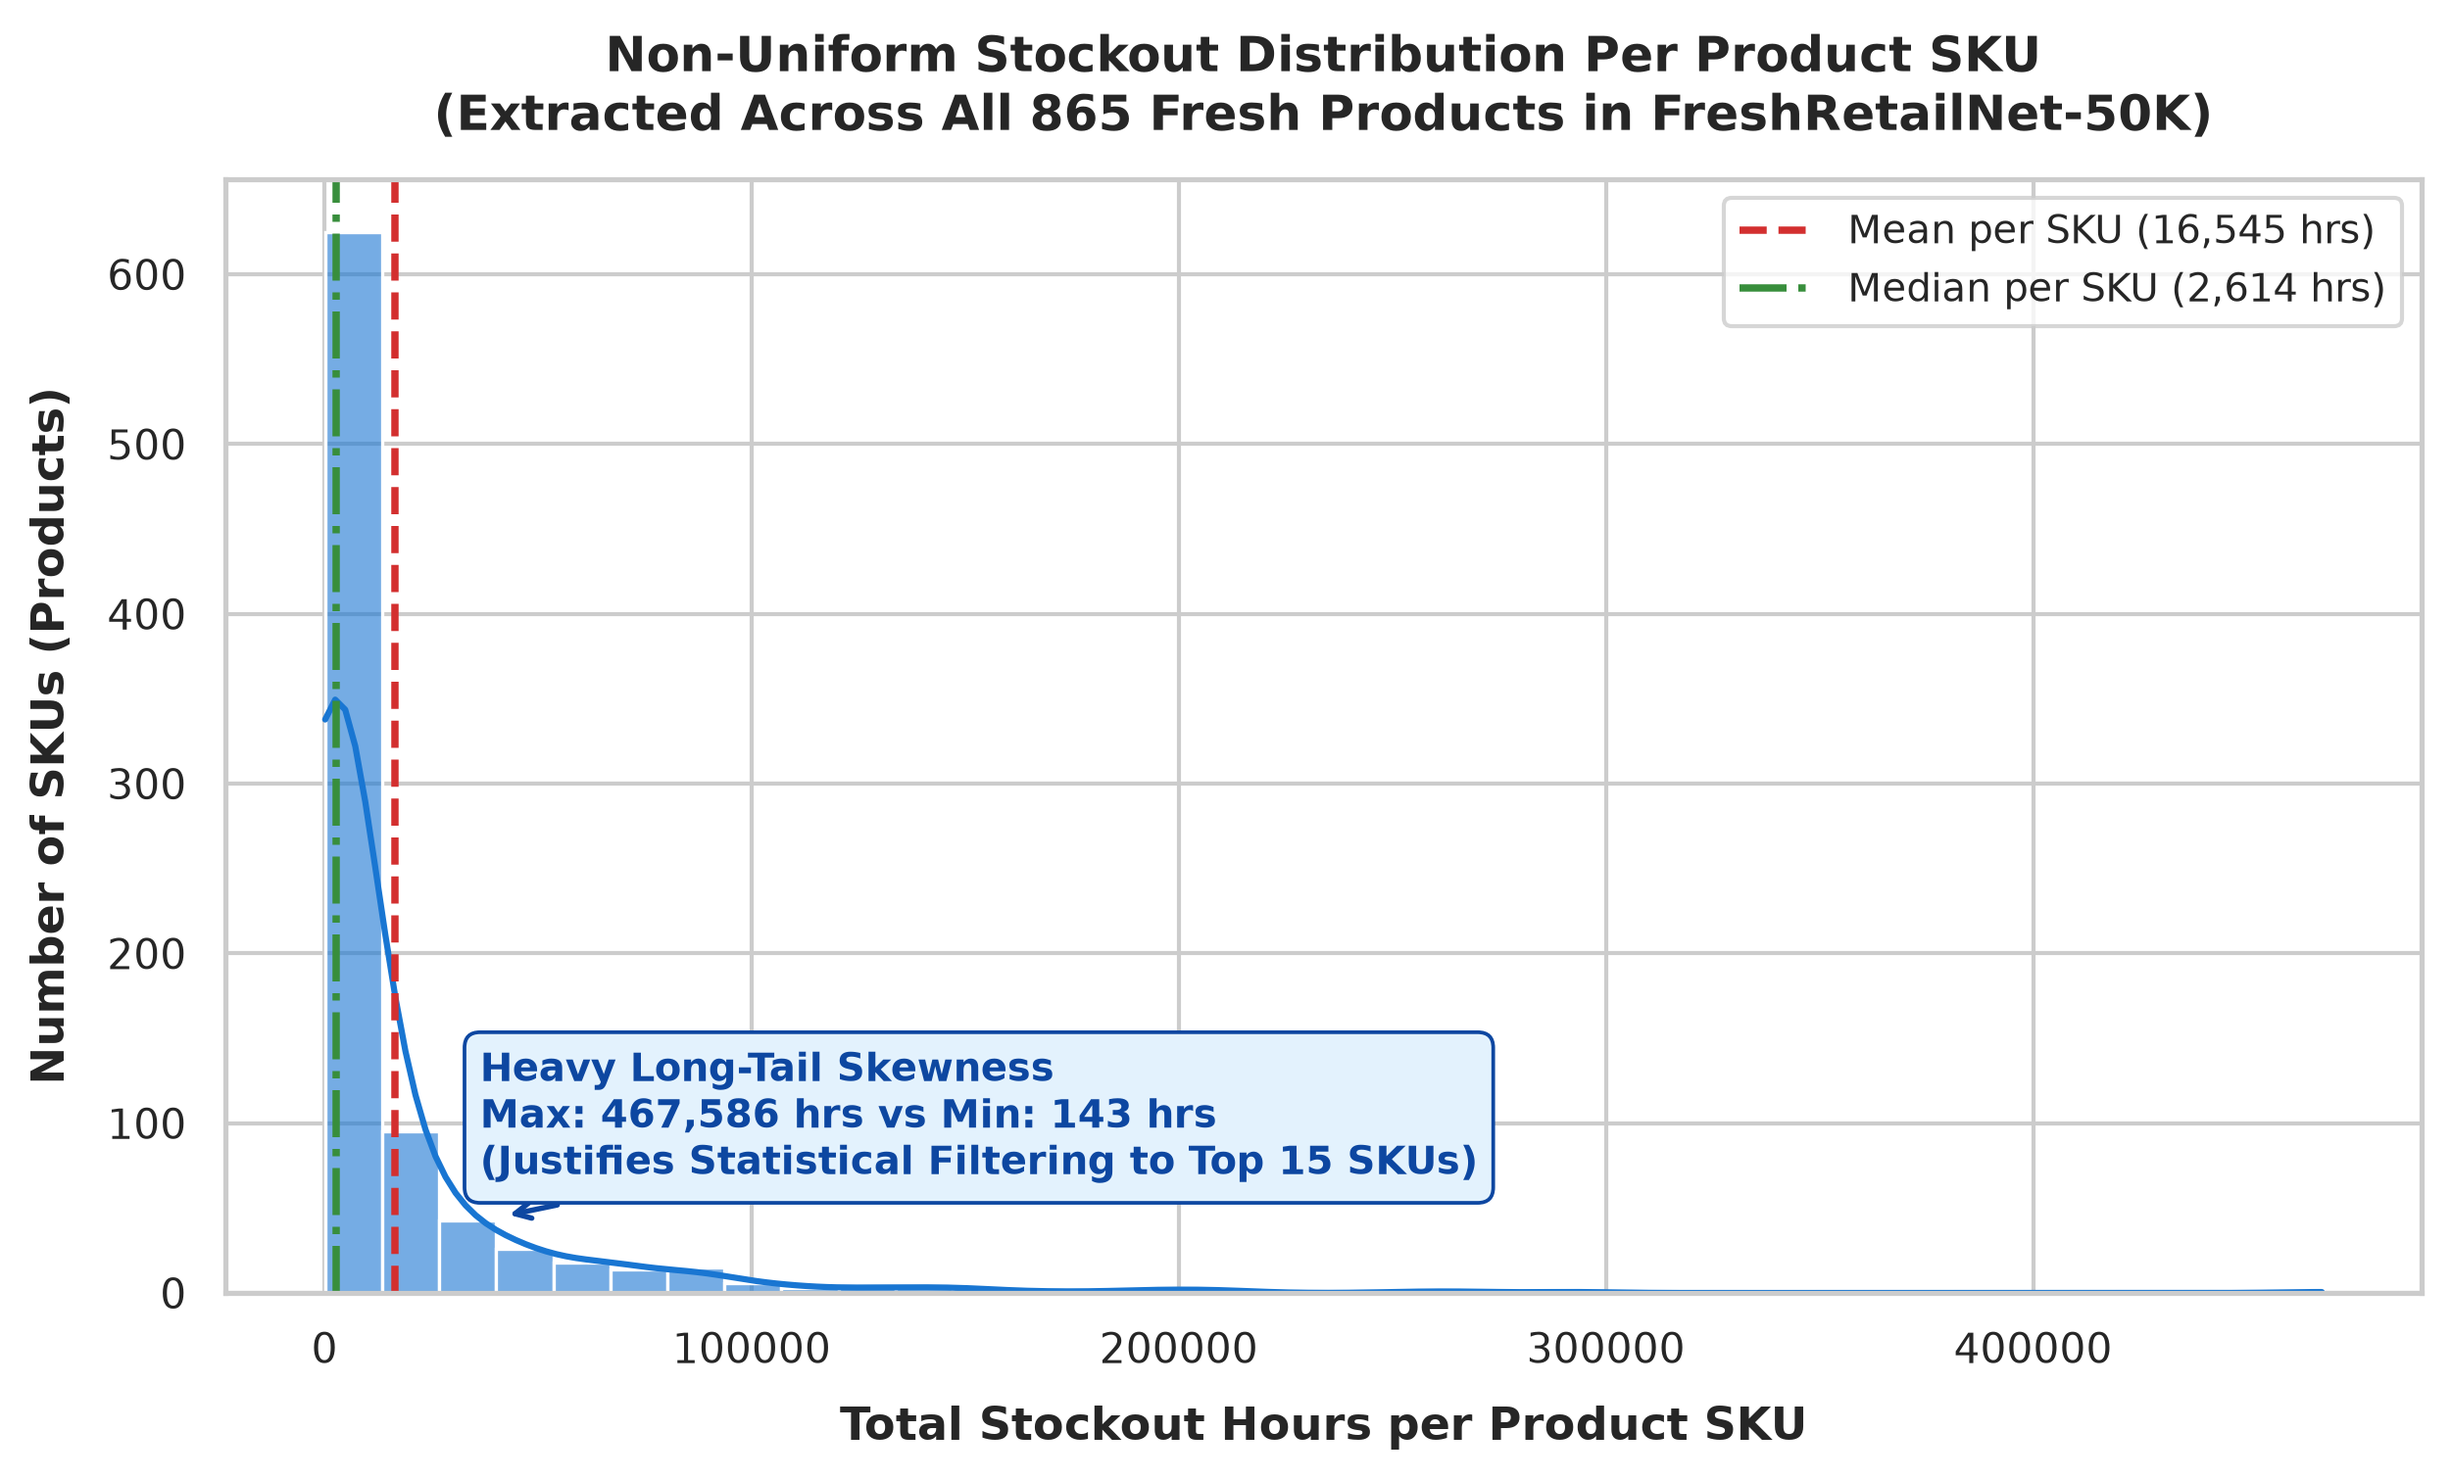
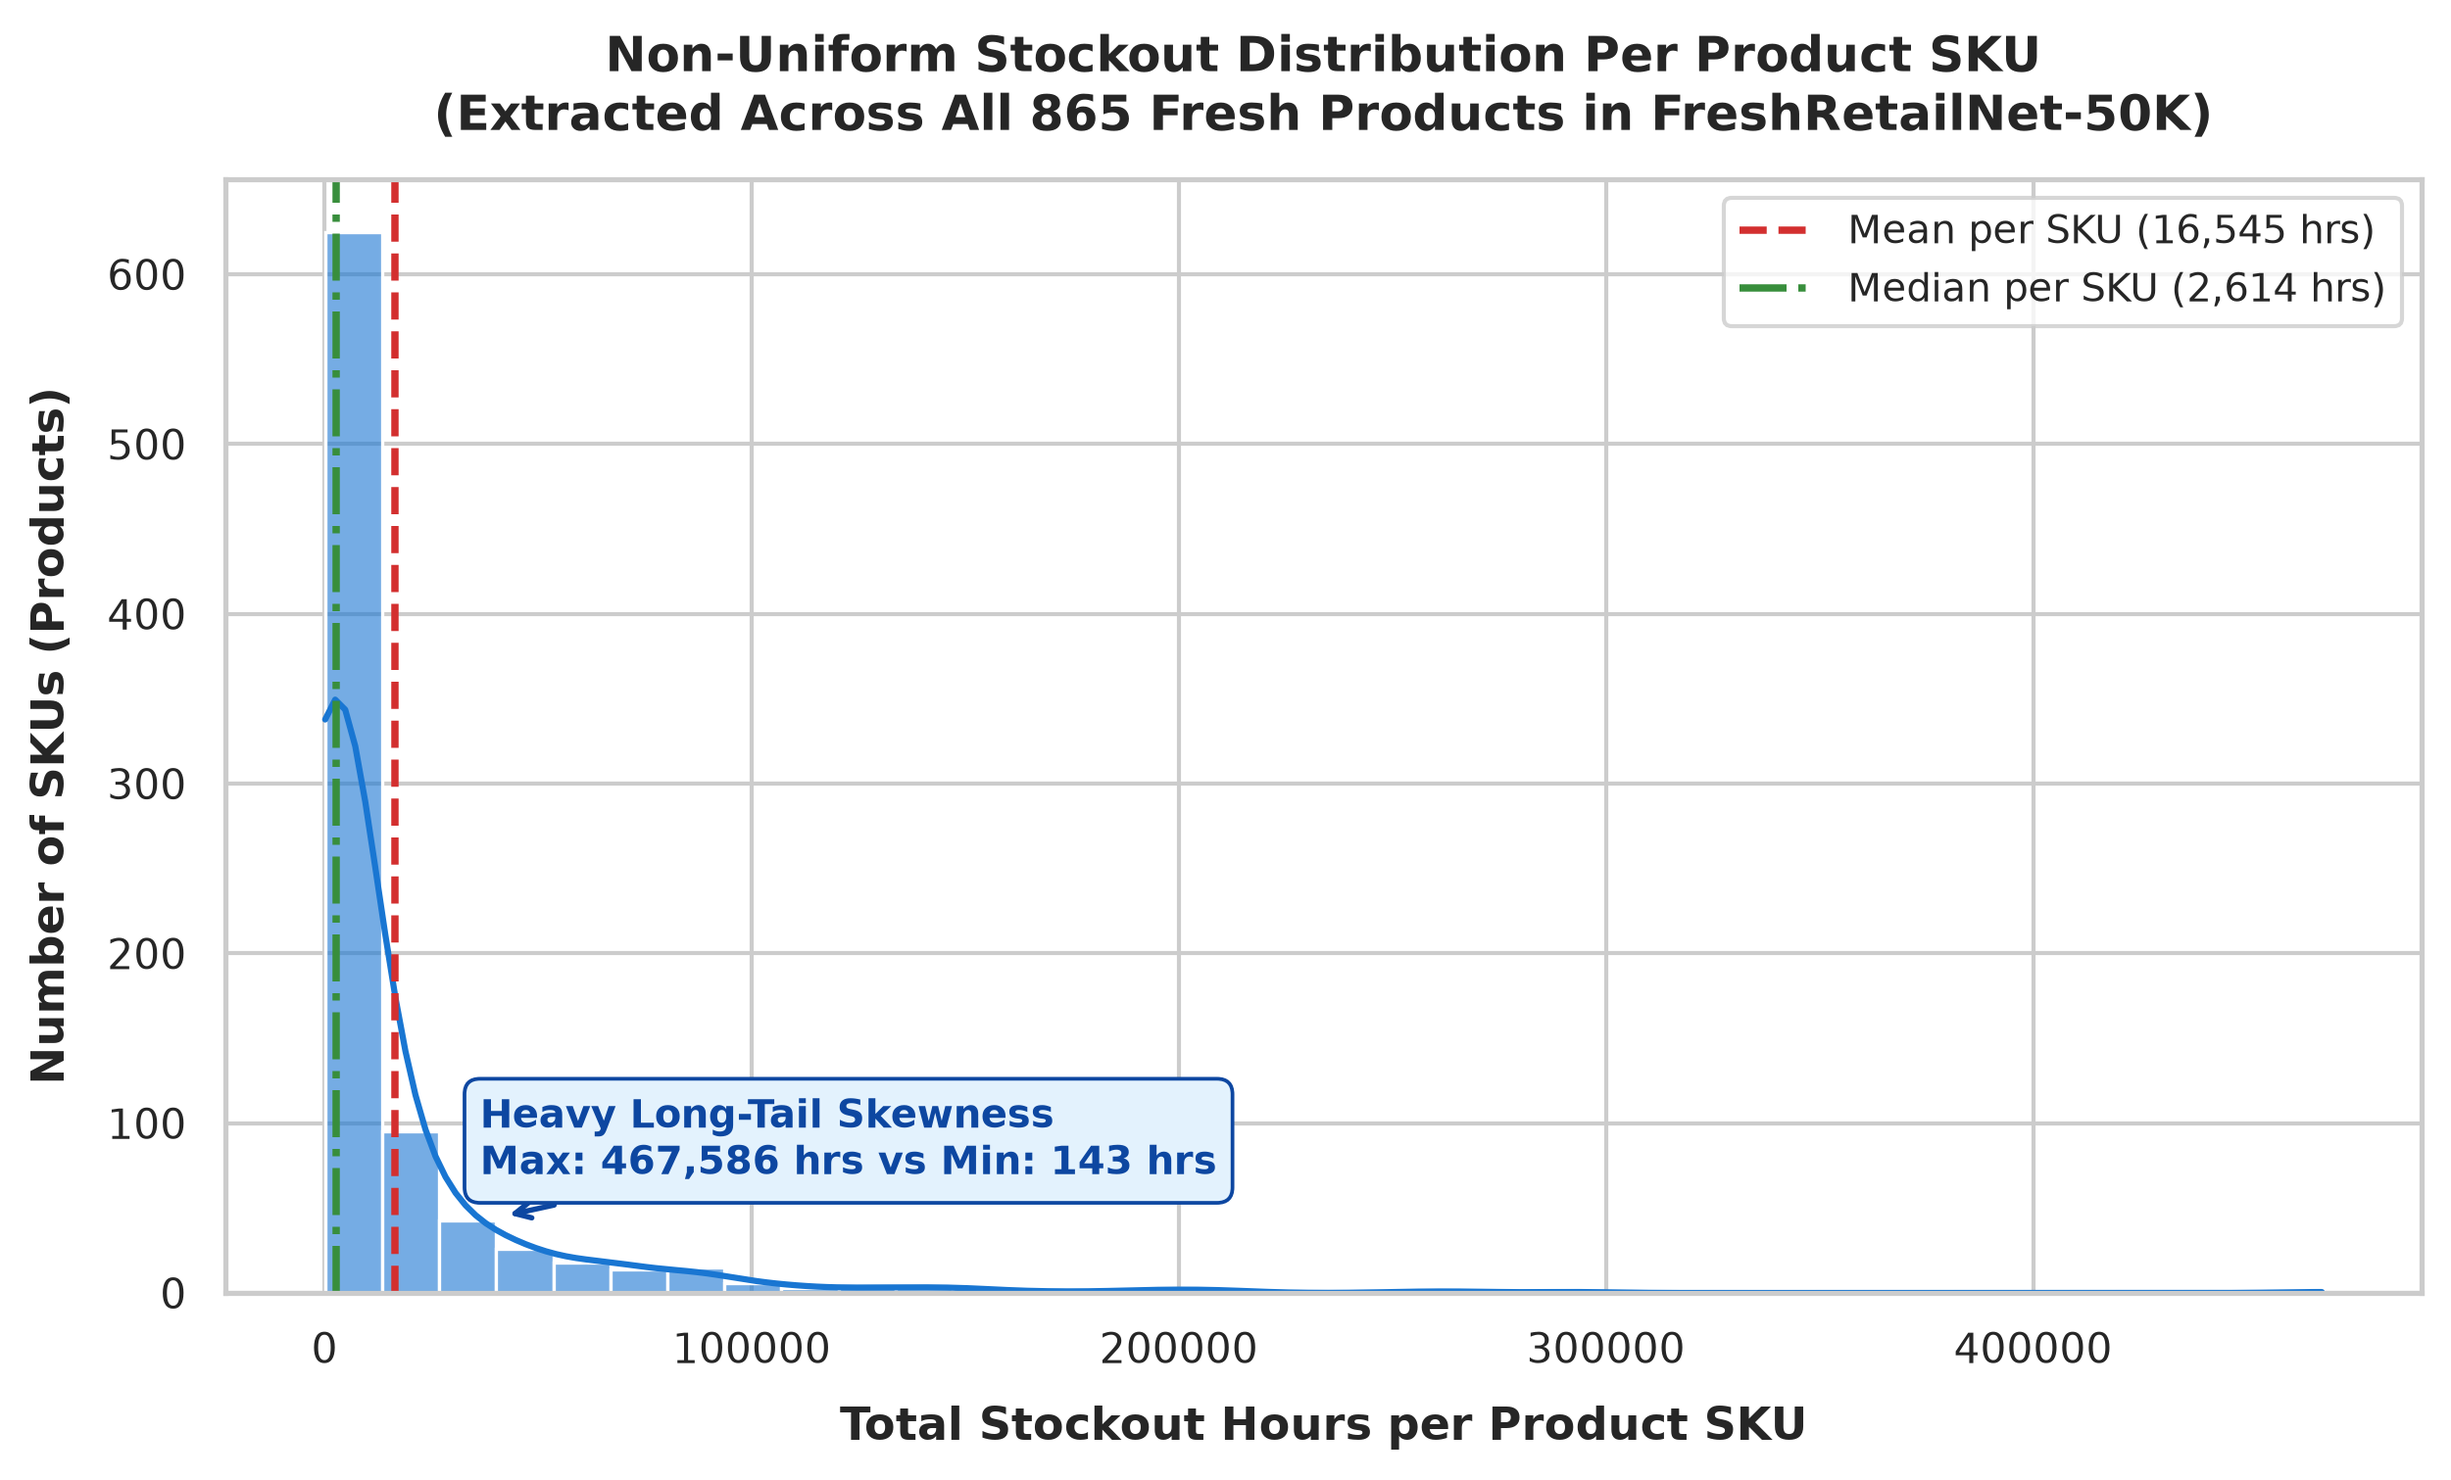
Update stockout distribution plot to remove statistical justification text

Changed region(s): [[0.1871, 0.6843, 0.6238, 0.8398]]

diff --git a/docs/presentation.tex b/docs/presentation.tex
@@ -336,26 +336,22 @@
 % SLIDE 13: CONCLUSION AND FUTURE SCOPE
 % ==========================================
 \begin{frame}{Conclusion and Future Scope}
-  \begin{columns}[T]
-    \begin{column}{0.48\textwidth}
-      \begin{block}{Key Conclusions}
-        \begin{itemize}
-          \item \textbf{Lightweight Linear Decompositions Win}: DLinear variants (13k--42k params) outperform heavy Transformers ($>280\text{k}$ params) and deep CNN-TCN models ($>500\text{k}$ params).
-          \item \textbf{GELU Non-Linearity Bottleneck}: Exceeds standard linear limits by flawlessly mapping sudden shelf-depletion step-functions, achieving a peak \textbf{0.8156 F1} and \textbf{91.37\% Recall}.
-          \item \textbf{Edge-Deployable Efficiency}: Designed with a tiny parameter footprint specifically so local retail shops lacking heavy cloud infrastructure can run urgent stockout calculations on-device.
-        \end{itemize}
-      \end{block}
-    \end{column}
-    
-    \begin{column}{0.48\textwidth}
-      \begin{exampleblock}{Future Scope}
-        \begin{itemize}
-          \item Integrate explicit choice estimation to unbias true demand during zero-stock hours.
-          \item Improve the architecture to directly forecast the exact quantitative future demand for products, rather than just binary stockout probabilities.
-        \end{itemize}
-      \end{exampleblock}
-    \end{column}
-  \end{columns}
+  \begin{block}{Key Conclusions}
+    \begin{itemize}
+      \item \textbf{Lightweight Linear Decompositions Win}: DLinear variants (13k--42k params) outperform heavy Transformers ($>280\text{k}$ params) and deep CNN-TCN models ($>500\text{k}$ params).
+      \item \textbf{GELU Non-Linearity Bottleneck}: Exceeds standard linear limits by flawlessly mapping sudden shelf-depletion step-functions, achieving a peak \textbf{0.8156 F1} and \textbf{91.37\% Recall}.
+      \item \textbf{Edge-Deployable Efficiency}: Designed with a tiny parameter footprint specifically so local retail shops lacking heavy cloud infrastructure can run urgent stockout calculations on-device.
+    \end{itemize}
+  \end{block}
+  
+  \vspace{0.3cm}
+  
+  \begin{exampleblock}{Future Scope}
+    \begin{itemize}
+      \item Integrate explicit choice estimation to unbias true demand during zero-stock hours.
+      \item Improve the architecture to directly forecast the exact quantitative future demand for products, rather than just binary stockout probabilities.
+    \end{itemize}
+  \end{exampleblock}
 \end{frame}
 
 % ==========================================

diff --git a/experiments/freshretail_lstm/final_architecture_package/src/generate_stockout_distribution_plot.py b/experiments/freshretail_lstm/final_architecture_package/src/generate_stockout_distribution_plot.py
@@ -70,7 +70,7 @@ ax.legend(loc="upper right", frameon=True, facecolor="white", edgecolor="#cccccc
 
 # Annotate skewness & justification
 ax.annotate(
-    f"Heavy Long-Tail Skewness\nMax: {max_val:,.0f} hrs vs Min: {min_val:,.0f} hrs\n(Justifies Statistical Filtering to Top 15 SKUs)",
+    f"Heavy Long-Tail Skewness\nMax: {max_val:,.0f} hrs vs Min: {min_val:,.0f} hrs",
     xy=(mean_val * 2.5, 45),
     xytext=(mean_val * 2.2, 70),
     fontweight="bold",
